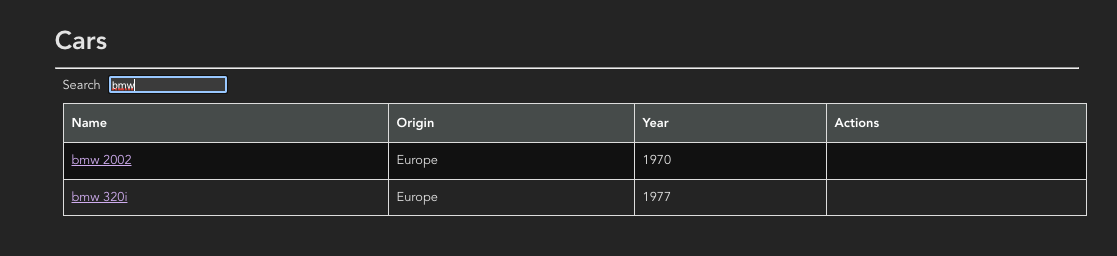
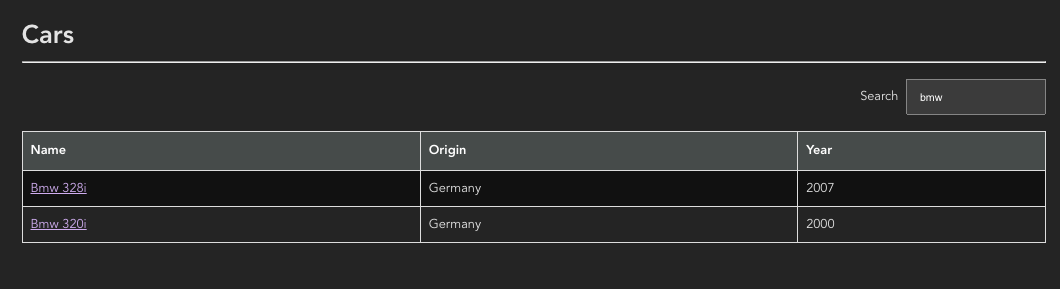
Implement Edit and Delete

diff --git a/RestAPI/client/src/Car.tsx b/RestAPI/client/src/Car.tsx
@@ -51,7 +51,6 @@ export default function Car() {
 
     async function handleSave(e: MouseEvent<HTMLButtonElement>  ){
         e.preventDefault;
-        console.log(`http://localhost:8080/api/cars/${carData}`)
 
         const res  = await fetch(`http://localhost:8080/api/cars`,
         {
@@ -62,19 +61,44 @@ export default function Car() {
             method: "POST",
             body: JSON.stringify(carData)
         })
-        .then(function(res1){ console.log(res1) ; return res1})
-        .catch(function(res2){ console.log(res2) })
+        .then(function(res1){ return res1.json()})
+        .catch(function(res2){ console.error(res2) })
         
 
         console.log(res);
-        //const res  = await fetch(`http://localhost:8080/api/cars/${carData}`);
+        if (res.error !== ''){
+            alert(`Error updating record: ${res.error} `)
+        }
+        else {
+            alert('Record saved!');
+            navigate('/');
+        }
     }
 
-    function handleRemove(e: MouseEvent<HTMLButtonElement>  ){
+    async function handleRemove(e: MouseEvent<HTMLButtonElement>  ){
         e.preventDefault;
         if (confirm('Do you want to remove this record?')){
-            alert("Functionality not implemented... but I'll take you home...");
-            navigate('/');
+           
+            const res  = await fetch(`http://localhost:8080/api/cars/${carData.Id}`,
+            {
+                headers: {
+                'Accept': 'application/json',
+                'Content-Type': 'application/json'
+                },
+                method: "DELETE"
+            })
+            .then(function(res1){ return res1.json()})
+            .catch(function(res2){ console.error(res2) })
+            
+
+            console.log(res);
+            if (res.error !== ''){
+                alert(`Error removing record: ${res.error} `)
+            }
+            else {
+                alert('Record removed!');
+                navigate('/');
+            }
             
         }
     }

diff --git a/RestAPI/server/src/index.ts b/RestAPI/server/src/index.ts
@@ -10,6 +10,7 @@ app.use(cors())
 app.use(express.json());
 
 
+// define a route handler for the default home page
 app.get( "/", ( req, res ) => {
     res.send(`
       <h1>API for cars database</h1>
@@ -37,9 +38,6 @@ app.get( "/api/cars", ( req, res ) => {
     }
 } );
 
-
-
-// define a route handler for the default home page
 app.get( "/api/cars/:id", ( req, res ) => {
     const parID = parseInt(req.params.id,10);
     const result  = Cars.filter((car) =>  {return (car.Id === parID)})
@@ -47,24 +45,19 @@ app.get( "/api/cars/:id", ( req, res ) => {
 });
 
 app.post( "/api/cars", ( req, res ) => {
-
     const carData = req.body as Car;
-
-    console.log('Post',{carData});
-    // const parID = parseInt(req.params.id,10);
     const index = Cars.findIndex((car)=>{ return car.Id === carData.Id;});
     if (index === -1 ){
         res.json({error:'Item not found!'} );
         return;
     }
-
     Cars[index] = carData;
-
     res.json({...carData, error:''});
 } );
 
 
-app.delete( "/api/cars", ( req, res ) => {
+app.delete( "/api/cars/:id", ( req, res ) => {
+
     interface ExpectedParam  {
         id : string | any;
     }
@@ -77,6 +70,7 @@ app.delete( "/api/cars", ( req, res ) => {
         return;
     }
     const carData =  Cars[index];
+    Cars.splice(index,1);
     res.json({ ...carData, error:''} );
 } );
 

diff --git a/RestAPI/client/src/List.tsx b/RestAPI/client/src/List.tsx
@@ -35,14 +35,16 @@ function ListCars() {
   return (
     <div className="App">
       <div>
-        <label style={{padding:'10px'}}>Search</label>
-        <input onChange={(e:React.ChangeEvent<HTMLInputElement>)=>{setSearch(e.target.value ?? '' )}} />
-        <table>
-          <thead><tr><th>Name</th><th>Origin</th><th>Year</th><th>Actions</th></tr></thead>
+          <div style={{display:'flex',justifyContent:'right', margin: '20px 0' }}>
+            <label style={{padding:'10px'}}>Search</label>
+            <input onChange={(e:React.ChangeEvent<HTMLInputElement>)=>{setSearch(e.target.value ?? '' )}} />
+          </div>
+        <table className='list'>
+          <thead><tr><th>Name</th><th>Origin</th><th>Year</th></tr></thead>
           <tbody>
           {
             cars.map((car: Car) => {
-              return (<tr key={car.Id}><td><Link to='car' state={{ carId: car.Id}} >{car.Name}</Link></td><td>{car.Origin}</td><td>{car.Year.substring(0,4)}</td><td></td></tr>)
+              return (<tr key={car.Id}><td><Link to='car' state={{ carId: car.Id}} >{car.Name}</Link></td><td>{car.Origin}</td><td>{car.Year.substring(0,4)}</td></tr>)
             })
           }
           </tbody>

diff --git a/RestAPI/client/src/List.css b/RestAPI/client/src/List.css
@@ -6,10 +6,10 @@
   }
   
   
-  table{
+  table {
     border-collapse: collapse;
     width: 100%;
-    margin: 10px;
+    margin: 10px 0;
     
   }
   
@@ -19,7 +19,12 @@
   }
   
   
-  tr:hover {background-color: rgb(84, 84, 84);}
+  tr:nth-child(odd) {background: #111} 
+
+  table.list  tbody  tr:hover {
+    background-color: rgb(50, 50, 50);
+  }
+
   th {
     padding-top: 12px;
     padding-bottom: 12px;

diff --git a/RestAPI/client/src/index.css b/RestAPI/client/src/index.css
@@ -25,8 +25,6 @@ button{
   padding: 5px 15px;
 }
 
-tr:nth-child(odd) {background: #111}
-
 td > input {
   width: 96%;
   height: 20px;

diff --git a/RestAPI/readme.md b/RestAPI/readme.md
@@ -15,10 +15,10 @@ Detail
 ![Detail screen](https://github.com/MrLuis/test/blob/main/RestAPI/detail.png)
 
 ### Todo
-- [X] Implement Edit
-- [ ] Implement Delete
+- [x] Implement Edit
+- [x] Implement Delete
 - [ ] Server Side Bug (Sometimes the server stop responding)
-- [ ] Upgrade servers typescript engine
+- [ ] Upgrade server's typescript engine
 - [ ] Add some icons
-  - [ ] actions (edit, remove)
+  - [ ] actions (save and remove buttons)
   - [ ] Home (when on detail mode)
